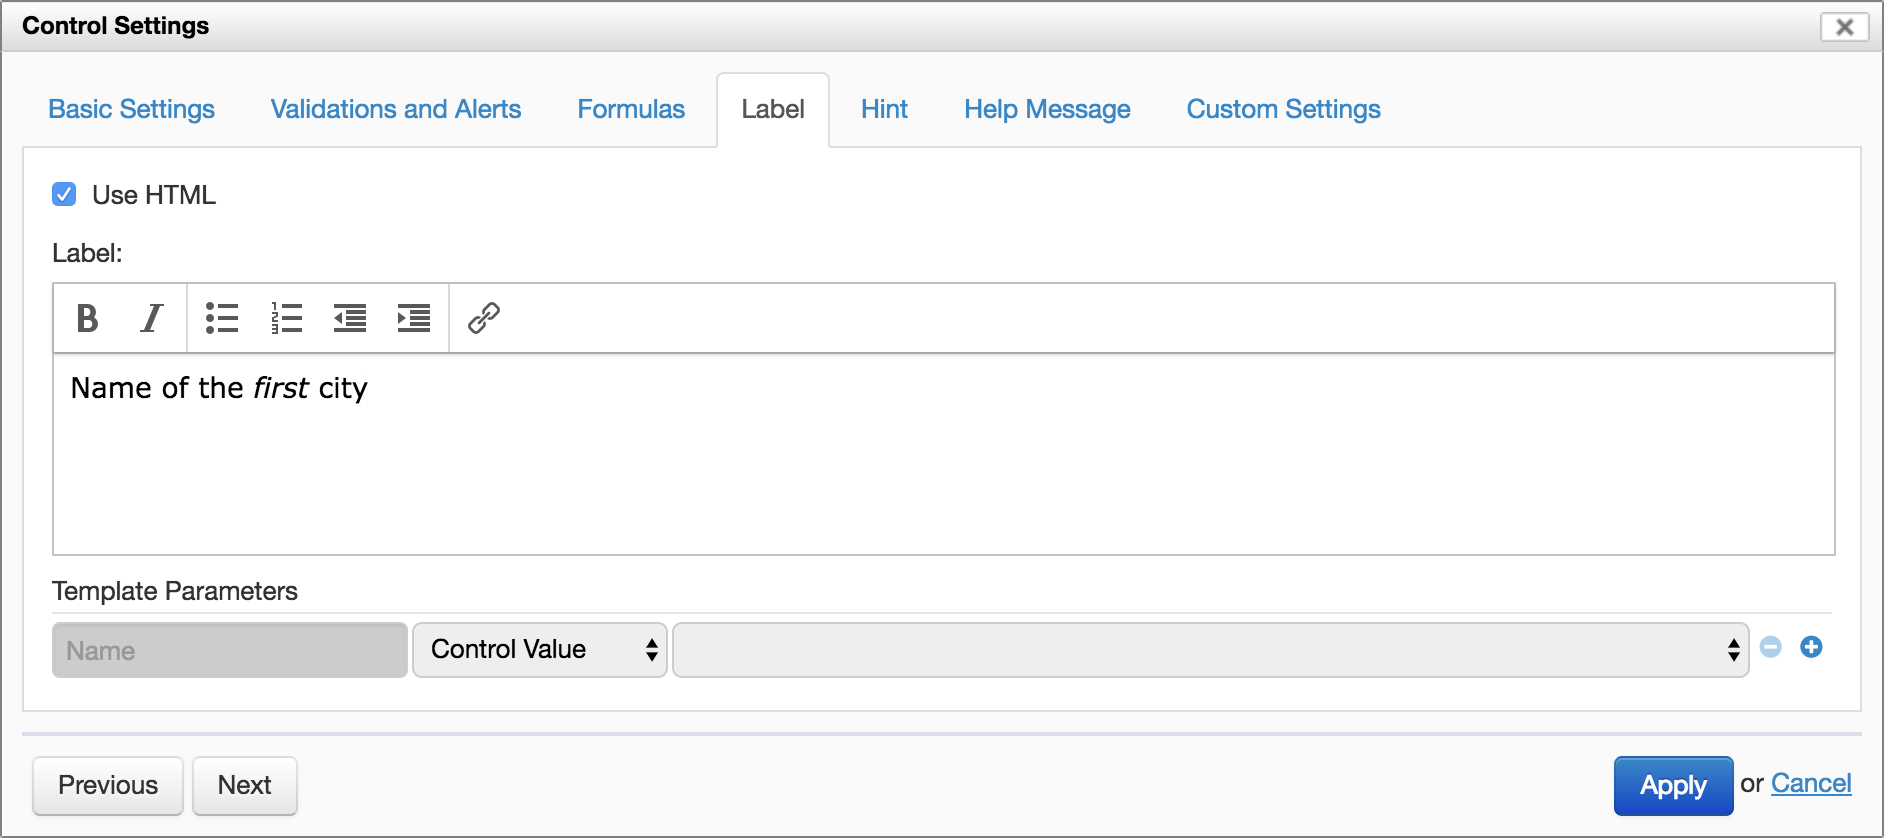
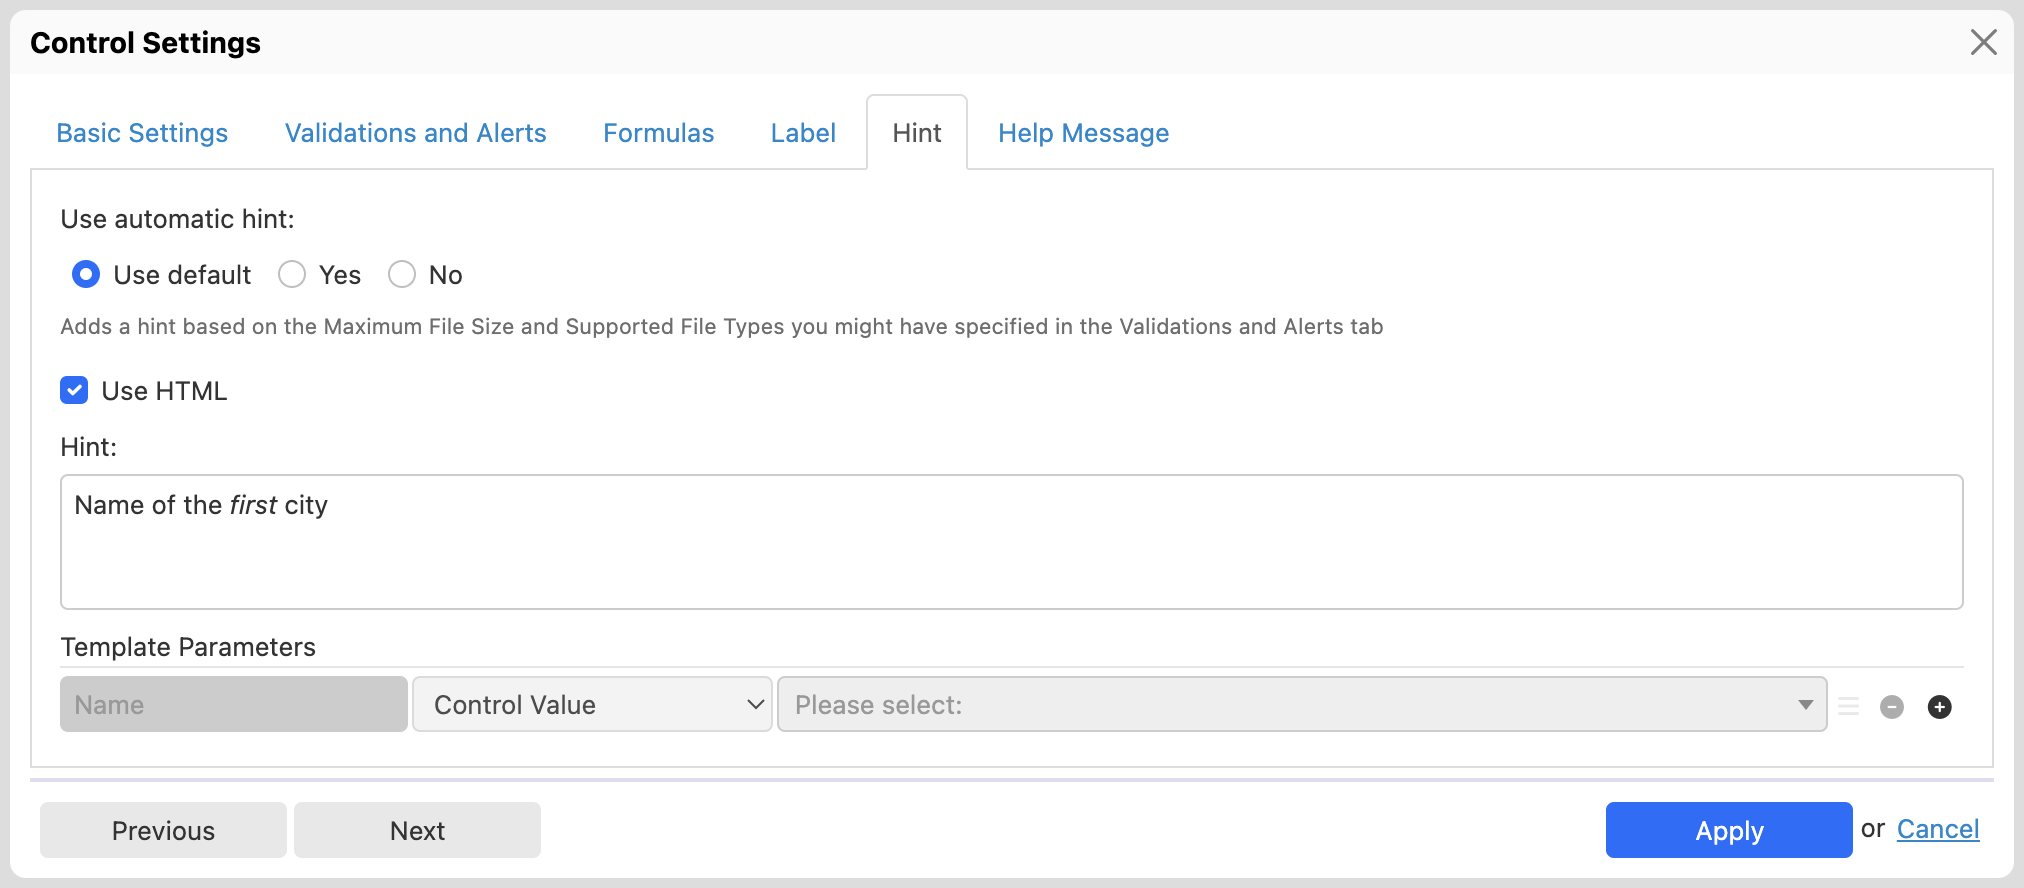
For #2833: automatic hints doc

Changed region(s): [[0.0, 0.0, 1.0, 1.0], [0.3079, 0.1241, 0.7389, 0.1862]]

diff --git a/form-builder/control-settings.md b/form-builder/control-settings.md
@@ -251,6 +251,21 @@ In addition to setting a control's label and hint in place in the form area, you
 
 ![Label tab](images/control-settings-label-hint.png)
 
+#### Automatic hints
+
+[SINCE Orbeon Forms 2023.1]
+
+For attachment controls, in addition to the hint you provide for the control, Orbeon Forms can add an automatic hint informing the user about the maximum allowed file size and the accepted file types, if you have specified such validations in the Validations and Alerts tab.
+
+Automatic hints are disabled by default, and you can enable them for a specific control in the Control Settings dialog, for all controls in a form in the Form Settings dialog, or globally using the property below. A setting other than "Default" in the Control Settings dialog box overrides a setting other than "Use property" in the Form Settings dialog box, which overrides the value of the property below.
+
+```xml
+<property 
+    as="xs:boolean"
+    name="oxf.fr.detail.hint.automatic.*.*"                           
+    value="true"/>
+```
+
 ### Help Message
 
 ![Help tab](images/control-settings-help.png)

diff --git a/form-builder/form-settings.md b/form-builder/form-settings.md
@@ -55,6 +55,11 @@ Form options include options which apply to the entire form definition.
     - Use property: use the `oxf.xforms.hint.appearance` property
     - Inline: hints show inline below the control
     - Tooltips: hints show as tooltips upon mouseover
+- Use automatic hints
+    - [SINCE Orbeon Forms 2023.1]
+    - Use property: use the `oxf.fr.detail.hint.automatic.*.*` property
+    - Yes/No: show or don't show the automatic hints for all controls on this form
+    - For details, see [Automatic hints](control-settings.md#automatic-hints)
 - Use Placeholder for Text Fields and Text Areas
     - Hints show inline or as tooltips upon mouseover.
     - For text, date, and time input fields, hints show as an HTML *placeholder* within the field when the field is empty.
